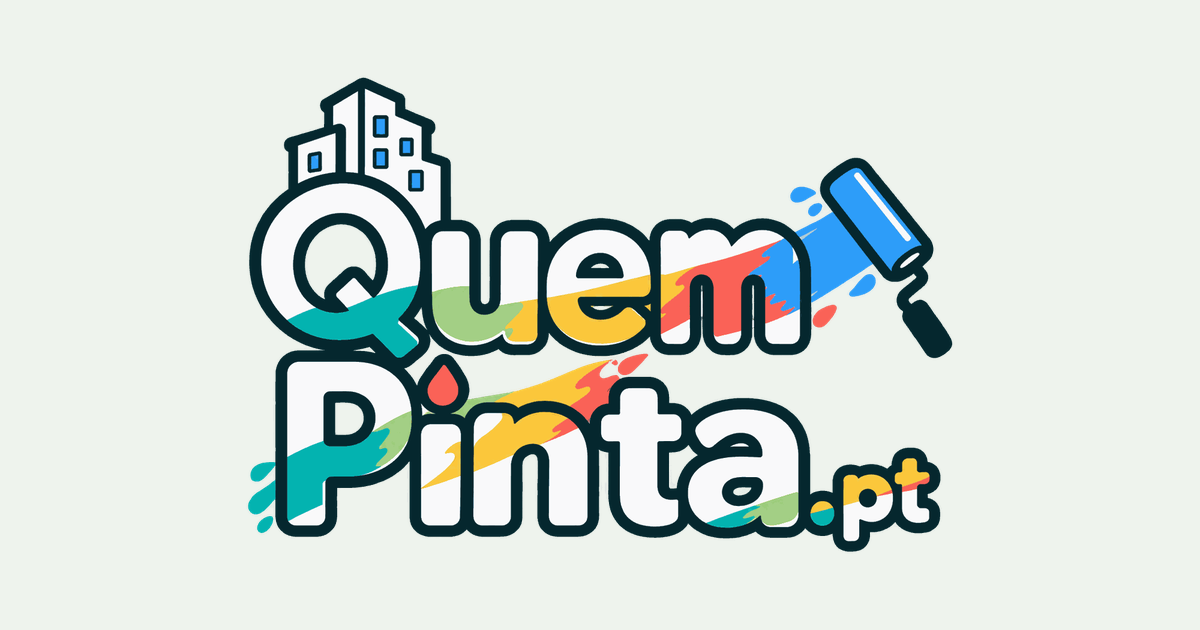
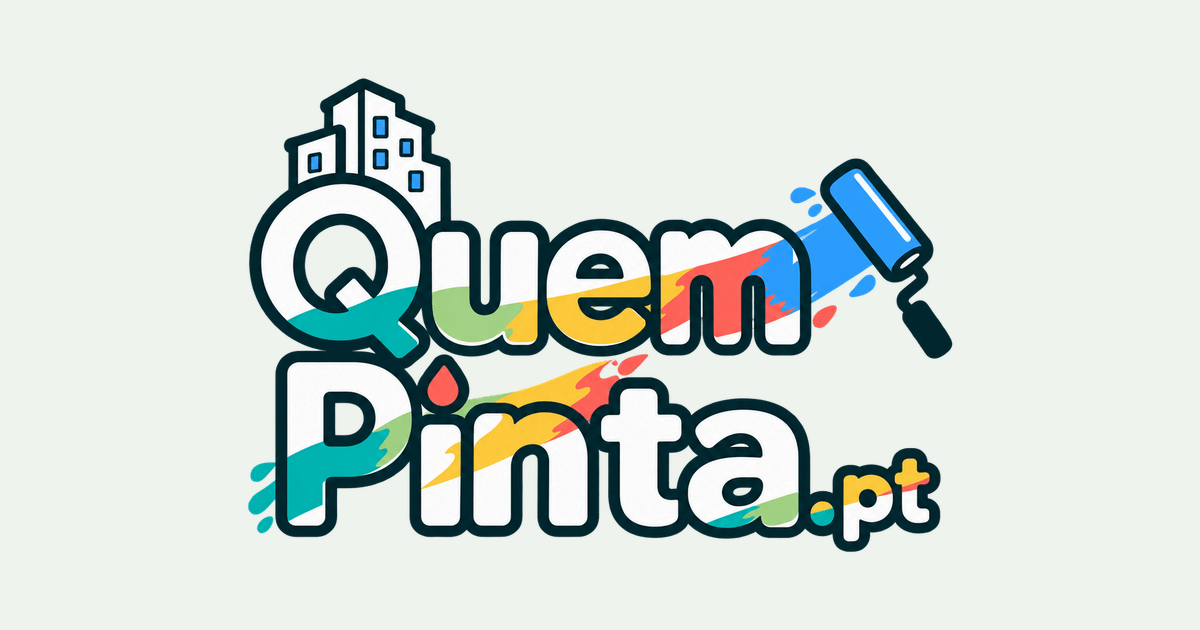
A marca cresce no cabeçalho, e os ícones passam a ter composição própria
Três correcções do promotor a 29/10/2026.

**«Ficou demasiadamente pequeno o logo na landing page».** A barra de topo
tinha 56px e o logótipo 34px. Passa a 68px e 46px, as medidas que ele
indicou — confirmadas a 1280px e a 390px, com o primeiro ecrã ainda inteiro
no telemóvel.

A altura da barra deixa de estar escrita à mão em três sítios. Dependiam
dela a barra da página inicial, a mesma barra nas páginas legais e o
primeiro ecrã do `PaintedHero`, que se cola por baixo dela e ocupa
`100svh` menos a sua altura. Com o número repetido, mudá-la partia o
primeiro ecrã em silêncio — e foi o que quase aconteceu. Passa a ser
`--altura-cabecalho`, uma linha no `globals.css`.

**«Os 700 ppp dependem do tamanho de impressão; não são uma propriedade
fixa do ficheiro».** Correcto, e o comentário dizia o contrário. Diz agora o
que se pode dizer: 600px de largura dão cerca de 690 pontos por polegada aos
22mm a que o logótipo sai na faixa do relatório, que é o maior sítio onde
aparece. E o ficheiro desceu de 1200px para 600px pela mesma conta — guardar
1200 era guardar o quádruplo dos pixéis para os deitar fora em todo o lado.

**«Favicon, ícone do telemóvel e imagem de partilha precisam de composições
próprias; não devem ser todos o mesmo ficheiro encolhido».** Também
correcto, e era o que estavam a ser. Agora:

- `docs/marca/` guarda os mestres, o original como foi entregue incluído, e
  um README com o que é cada ficheiro e o que falta (não há vectores nem
[…]

diff --git a/src/components/Logotipo.tsx b/src/components/Logotipo.tsx
@@ -10,8 +10,15 @@ import { BRAND } from '@/config/brand';
  *
  * **Porquê um PNG e não um SVG.** O original veio em imagem, não em vectores. O ficheiro foi
  * recortado à caixa do desenho — vinha com uma tela quadrada e uma sombra muito ténue à volta, que
- * obrigavam a centrá-lo à mão em cada sítio — e reduzido a 128 cores, o que o deixa em 43 kB sem
- * diferença visível. A 1200px de largura, impresso a 40mm, dá mais de 700 pontos por polegada.
+ * obrigavam a centrá-lo à mão em cada sítio — e reduzido a 128 cores.
+ *
+ * Os pontos por polegada **não são uma propriedade do ficheiro**: dependem do tamanho a que se
+ * imprime (correcção do promotor, 29/10/2026). O que se pode dizer é que os 600px de largura deste
+ * ficheiro dão cerca de 690 ppp aos 22mm a que o logótipo sai na faixa do relatório, que é o maior
+ * sítio onde aparece — mais do dobro dos 300 que uma gráfica pede.
+ *
+ * O original tal como foi entregue, e os mestres de que este ficheiro é gerado, ficam em
+ * `docs/marca/`. `npm run marca` regenera tudo.
  *
  * **Altura, nunca largura.** O logótipo tem duas linhas de texto; é a altura que decide se se lê.
  * Abaixo de uns 30px cada linha fica com menos de 12px e deixa de se distinguir — por isso os
@@ -19,10 +26,17 @@ import { BRAND } from '@/config/brand';
  */
 
 /** As dimensões do ficheiro. Ficam aqui para o navegador reservar o espaço antes de o carregar. */
-export const LOGOTIPO = { src: '/img/logotipo.png', largura: 1200, altura: 816 } as const;
+export const LOGOTIPO = { src: '/img/logotipo.png', largura: 600, altura: 408 } as const;
 
-/** Altura por tamanho, em píxeis de ecrã. */
-const ALTURAS = { sm: 34, md: 44, lg: 60 } as const;
+/**
+ * Altura por tamanho, em píxeis de ecrã.
+ *
+ * Subiu de 34/44/60 a 29/10/2026: «ficou demasiadamente pequeno o logo na landing page» (promotor).
+ * A barra de topo tinha 56px e o logótipo 34px — sobrava-lhe espaço de cada lado e a marca lia-se
+ * como um selo. A barra passou a 68px e o logótipo a 46px, as medidas que o promotor indicou, que
+ * lhe deixam 11px de folga acima e abaixo.
+ */
+const ALTURAS = { sm: 46, md: 58, lg: 78 } as const;
 
 export function Logotipo({
   tamanho = 'md',

diff --git a/src/components/landing/PaintedHero.tsx b/src/components/landing/PaintedHero.tsx
@@ -74,7 +74,7 @@ export function PaintedHero({ children }: { children: ReactNode }) {
         `svh` e não `vh`: no telemóvel, `vh` conta com a barra de endereço retraída, e o último terço
         do primeiro ecrã ficava escondido por baixo dela.
       */}
-      <div className="sticky top-14 mx-auto grid h-[calc(100svh-3.5rem)] max-w-6xl grid-rows-[auto_1fr] content-start gap-5 px-4 lg:grid-cols-2 lg:grid-rows-none lg:content-center lg:items-center lg:gap-6">
+      <div className="sticky top-[var(--altura-cabecalho)] mx-auto grid h-[calc(100svh-var(--altura-cabecalho))] max-w-6xl grid-rows-[auto_1fr] content-start gap-5 px-4 lg:grid-cols-2 lg:grid-rows-none lg:content-center lg:items-center lg:gap-6">
         {/* `self-start` e não `self-center`: o texto está na linha flexível da grelha, e centrado
             deixava uma faixa vazia de ~100px entre o prédio e o título — espaço que o promotor queria
             a ler, não em branco (medido a 390×844, 27/10/2026). Agora o texto encosta ao prédio e a

diff --git a/src/app/globals.css b/src/app/globals.css
@@ -6,6 +6,15 @@
   color-scheme: light;
 
   /*
+   * A altura da barra de topo. Vive aqui porque três sítios dependem dela e dependiam cada um por
+   * sua conta: a barra em `page.tsx`, a mesma barra em `LegalPage.tsx`, e o primeiro ecrã em
+   * `PaintedHero.tsx`, que se cola por baixo dela (`top`) e ocupa o que sobra (`100svh menos` isto).
+   * Com o número escrito à mão em cada um, mudar a altura da barra partia o primeiro ecrã em
+   * silêncio — e foi o que quase aconteceu ao aumentar o logótipo a 29/10/2026.
+   */
+  --altura-cabecalho: 4.25rem; /* 68px — medida pedida pelo promotor a 29/10/2026 */
+
+  /*
    * Paleta da marca, tal como veio do desenho do site (25/10/2026). Valores exactos, não
    * aproximações: a aplicação tinha um petróleo (#173f42) e a marca é um verde-escuro.
    * Por agora vive na página de planos; o resto da aplicação ainda segue a paleta antiga.

diff --git a/src/app/page.tsx b/src/app/page.tsx
@@ -63,7 +63,7 @@ export default function Home() {
         pessoa faça. A marca desce para 20px e o "Entrar" passa a ligação — quem tem conta procura-o e
         encontra-o; quem não tem fica com um caminho só à vista, o botão do primeiro ecrã.
       */}
-      <header className="sticky top-0 z-20 h-14 border-b border-slate-200/80 bg-white/95 backdrop-blur">
+      <header className="sticky top-0 z-20 h-[var(--altura-cabecalho)] border-b border-slate-200/80 bg-white/95 backdrop-blur">
         <div className="mx-auto flex h-full max-w-6xl items-center justify-between px-4">
           <Link href="/" aria-label="Início" className="inline-flex min-h-[44px] items-center">
             <BrandMark size="sm" />

diff --git a/src/components/LegalPage.tsx b/src/components/LegalPage.tsx
@@ -36,7 +36,7 @@ export function LegalLinks({ className = '' }: { className?: string }) {
  */
 export function PublicHeader() {
   return (
-    <header className="sticky top-0 z-20 h-14 border-b border-slate-200/80 bg-white/95 backdrop-blur print:hidden">
+    <header className="sticky top-0 z-20 h-[var(--altura-cabecalho)] border-b border-slate-200/80 bg-white/95 backdrop-blur print:hidden">
       <div className="mx-auto flex h-full max-w-3xl items-center justify-between px-4">
         <Link href="/" aria-label={`Ir para a página inicial de ${BRAND.name}`} className="inline-flex min-h-[44px] items-center">
           <BrandMark size="sm" />

diff --git a/docs/marca/README.md b/docs/marca/README.md
@@ -1,0 +1,52 @@
+# A marca Quem Pinta
+
+O logótipo foi entregue pelo promotor a 29/10/2026, em imagem. Esta pasta guarda os **mestres**; os
+ficheiros que a aplicação usa são **gerados** a partir deles por `npm run marca`
+(`scripts/marca.mjs`) e não se editam à mão.
+
+## Os mestres
+
+| Ficheiro | O que é |
+| --- | --- |
+| `logotipo-original.png` | Exactamente como foi entregue, 1254×1254, sem lhe tocar. Não é usado por nada: existe para se poder voltar atrás e para quem precisar da arte em bruto. |
+| `logotipo.png` | O mesmo, aparado à caixa do desenho (1208×821), sem redução de cores. É daqui que sai o logótipo da aplicação e a imagem de partilha. |
+| `marca-q.png` | Só o «Q» com o seu traço de tinta, recortado do logótipo. Para ícones pequenos. |
+| `marca-q-invertida.png` | O mesmo «Q» para fundo escuro: contorno a branco, interior a `tinta-900`, o traço turquesa na mesma. |
+
+O recorte do «Q» e a sua inversão envolvem decisões de desenho — onde acaba o «Q» e começa o «u»,
+que cor fica branca sobre fundo escuro. Fizeram-se uma vez, estão revistas à vista e vivem em
+ficheiro. O programa só faz a parte mecânica, que é a que se repete: redimensionar, compor,
+comprimir.
+
+## O que é gerado
+
+| Ficheiro | Para quê |
+| --- | --- |
+| `public/img/logotipo.png` | O logótipo na aplicação, nos documentos A4 e nos emails. |
+| `src/app/icon.png` | Separador do navegador. |
+| `src/app/apple-icon.png` | Ecrã do telemóvel (iOS). |
+| `src/app/opengraph-image.png` | A imagem que aparece quando alguém partilha uma ligação. |
+
+Cada um tem a sua composição. O ícone **não** é o logótipo inteiro encolhido: a 16px as duas linhas
+de texto e as janelas do prédio tornam-se uma nódoa. Mediu-se — ver abaixo — e o que sobrevive a 16px
+é o «Q» sozinho.
+
+## O que se mediu, a 29/10/2026
+
+- **O logótipo inteiro a 16, 32 e 48px:** ilegível nos três. As duas linhas de texto são o problema.
+- **«Q» + prédio:** o prédio desfaz-se abaixo de 32px, com ou sem as janelas. Tirar as janelas não
+  resolve e deixa o prédio com ar de inacabado nos tamanhos em que se vê.
+- **Só o «Q», com o traço de tinta:** lê-se aos 16px e é nítido aos 32. É o que está em uso.
+- **Selo escuro com o «Q» a branco:** lê-se melhor do que o «Q» claro num separador de navegador,
+  porque uma forma cheia ganha sempre a um contorno nesses tamanhos. É o que está em uso.
+
+A alternativa — o «Q» com as cores do logótipo, sem selo — está feita e troca-se numa linha de
+`scripts/marca.mjs`: `icone(256)` passa a `icone(256, { fundo: false })`.
+
+## O que falta, e não se inventa aqui
+
+- **Não há versão vectorial.** O original é uma imagem. Sem vectores, o logótipo não se pode compor
+  em tamanhos muito grandes nem recolorir com rigor; se houver ficheiro de desenho (AI, SVG, Figma),
+  é o que deve substituir estes mestres.
+- **Não há versão monocromática.** Um documento fotocopiado a preto e branco converte as cores em
+  cinzentos. Enquanto não houver uma versão a um tom, é o que acontece.
